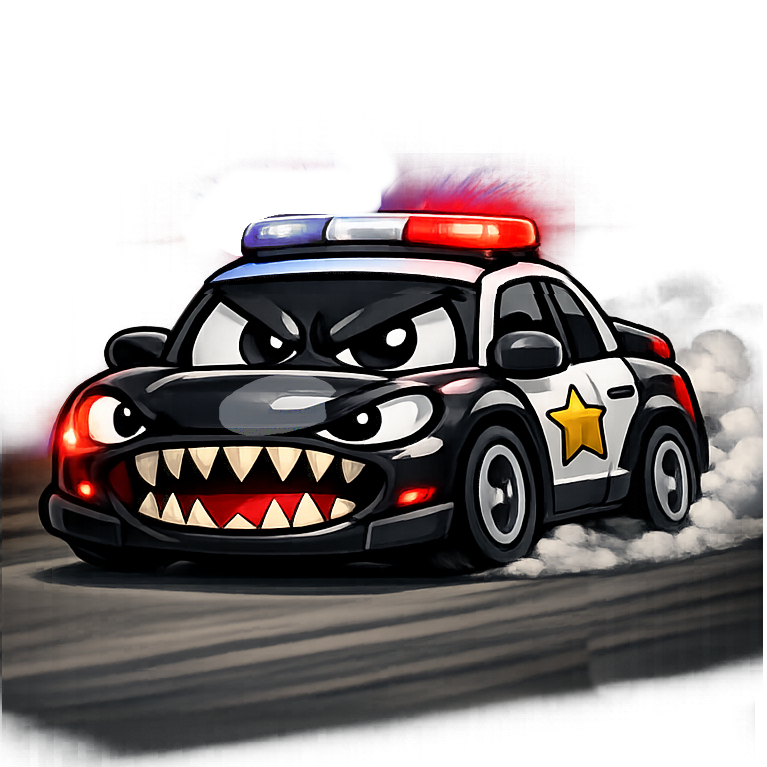
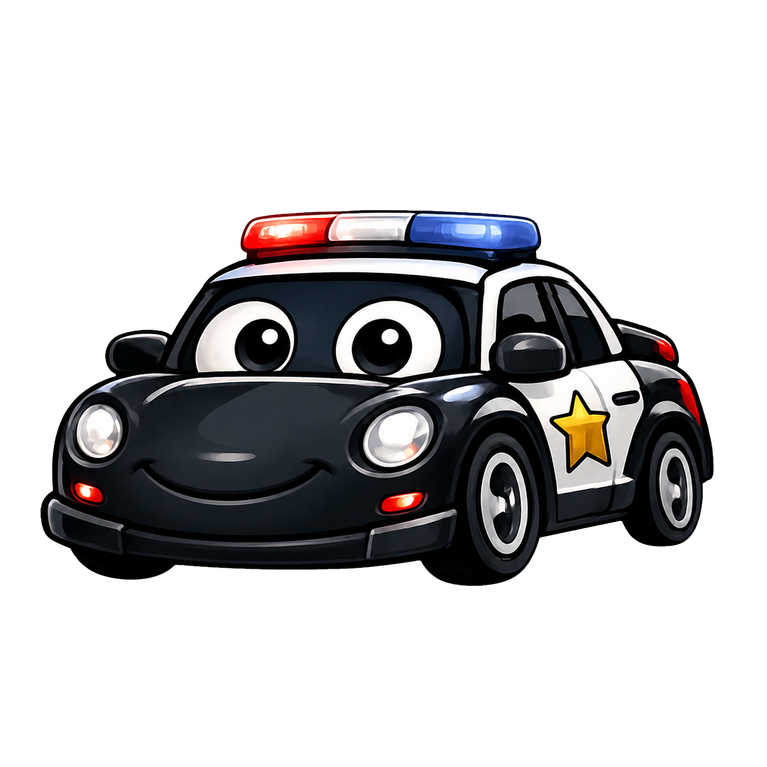
Compliance record: re-run against current assets
Content assessment re-resolved through theme_loader.gd. All nine themes
now load their intended assets and none contains a weapon, bared teeth,
a snarling character or a trademark-adjacent design.

Closed since the previous assessment: the castle player carries a lit
torch rather than a sword and its edges are properly anti-aliased
(soft-edge fraction 0.00 to 5.94 percent); the Little Red wolf has a
closed friendly mouth and round eyes with silhouette IoU 0.9998 against
its predecessor; the arcade theme is an original neon design.

Also fixed the castle collectible, whose manifest named shield_new
without a file extension so the loader returned null and the item
rendered with no sprite.

Open content items reduce from five to two: the Autumn Forest background
and collectible, and the Bathroom theme. Action list reduces from
fourteen items to eleven.

Ducks records a collectible colour with no sprite - that is by design,
the engine draws a coloured glyph, and it is not a defect.

diff --git a/COMPLIANCE_CHECKLIST.md b/COMPLIANCE_CHECKLIST.md
@@ -10,7 +10,7 @@
 | **Accounts** | None. No sign-in, no user profiles |
 | **Permissions requested** | `INTERNET`, `VIBRATE` — two, both used |
 | **Third-party SDKs** | None |
-| **Assessed** | 7 August 2026 |
+| **Assessed** | 9 August 2026 |
 
 Assessed against the policy text published at:
 
@@ -20,7 +20,7 @@ Assessed against the policy text published at:
 
 **Key:** ✅ meets the requirement · ⚠ open item, described in full · ❓ requires an artefact outside the application binary · ➖ not applicable
 
-**Scope of verification.** Every ✅ in Parts 2–5 is verified by inspection of the application source and build configuration, and is reproducible by a third party from the repository. Items marked ❓ depend on Play Console state or external services and cannot be evidenced from the binary. No claim in this document rests on assertion alone.
+**Scope of verification.** Every ✅ in Parts 2–5 is verified by inspection of the application source and build configuration, and is reproducible by a third party from the repository. Content assessment in Part 3 covers the assets the application actually loads, resolved by following the theme loader's own logic rather than listing directory contents. Items marked ❓ depend on Play Console state or external services and cannot be evidenced from the binary.
 
 ---
 
@@ -30,10 +30,12 @@ Learning Maze is an offline educational maze game for pre-readers and early read
 
 The application transmits no data, contains no third-party code, requests two permissions, and displays no advertising of any kind. Requirements 2, 4, 5, 7 and 8 of the Families Policy Requirements pass without qualification and are provable from the shipped artefact.
 
-**Open items are confined to two areas**, both set out in full below and neither of which is a data, privacy, advertising or technical matter:
+**Two open items remain**, both described in full below, and neither of which is a data, privacy, advertising or technical matter:
 
-1. Two character sprites and three theme-level items warrant review against the *Ages 5 & under* content guidance (Part 3).
+1. One optional theme's background and collectible warrant review against the *Ages 5 & under* guidance (Part 3, item C1).
 2. Three IARC content-rating questionnaire answers require confirmation against current content (Part 2, requirement 3).
+
+Across the nine themes, **no weapon, no bared teeth, no snarling character and no trademark-adjacent design is present** in any asset the application loads.
 
 ---
 
@@ -62,7 +64,7 @@ Seven of eight authorities return the lowest available rating. The ACB outlier d
 
 ### Requirement 2 · App is not merely a webview, and does not drive affiliate traffic ✅
 
-Native Godot application. **No webview component of any kind exists in the codebase** — verified by search for `WebView`, `JavaScriptBridge` and embedded HTML rendering; zero occurrences. The application renders its own interface and has no browsing capability.
+Native Godot application. **No webview component of any kind exists in the codebase** — verified by search for `WebView` and `JavaScriptBridge`; **zero occurrences**. The application renders its own interface and has no browsing capability.
 
 Three outbound links exist, all in the settings screen, all requiring an explicit user tap, and all handing off to the system browser rather than rendering in-process:
 
@@ -158,6 +160,8 @@ A privacy policy is published and linked in Play Console and within the applicat
 
 The application declares Ages 5 & under, which Google notes "is considered to include children in most locales". This section walks Google's published suitability criteria for that band.
 
+**Method.** Theme folders contain superseded assets that the application does not load. Every asset assessed below is the one the game **actually displays**, resolved by following `theme_loader.gd`: the `assets.<slot>` entry in each `manifest.json`, or the naming-convention default, then the top-level animation block whose frame list overrides it. Unreferenced files are excluded from the assessment and listed separately under Part 6.
+
 ### Criteria the application meets ✅
 
 | Google's criterion | How the application meets it |
@@ -179,36 +183,30 @@ The application declares Ages 5 & under, which Google notes "is considered to in
 | Require short-term memory tasks or abstract thinking | ✅ | None. The target glyph is displayed continuously in the HUD |
 | Include game penalties or punishments | ✅ | **None.** No score loss, no lives, no game-over, no progress reset |
 | Have a wide range of distracting features | ✅ | No advertising, no interstitials, no notifications, no external content |
-| Depict violence, fighting, **weapons**, crude humour or language, name-calling, or minimally sexual or suggestive themes, including depictions of alcohol | ⚠ | No violence, fighting, name-calling, sexual or suggestive content. **Zero** alcohol, tobacco or drug imagery anywhere in 3,652 vocabulary entries. Two items warrant review — see C1 and C4 below |
-| Depict **scary, dark settings** or characters in danger (think scary animals, monsters, music, **backgrounds**) | ⚠ | Two items warrant review — see C2 and C3 below |
+| Depict violence, fighting, **weapons**, crude humour or language, name-calling, or minimally sexual or suggestive themes, including depictions of alcohol | ⚠ | **No weapon appears in any loaded asset.** No violence, fighting, name-calling, sexual or suggestive content. **Zero** alcohol, tobacco or drug imagery across 3,652 vocabulary entries. One item — see C2 |
+| Depict **scary, dark settings** or characters in danger (think scary animals, monsters, music, **backgrounds**) | ⚠ | **No character in any theme bares teeth, snarls, or carries a menacing expression.** One item — see C1 |
 
 ### Content inventory — all nine themes
 
-Each theme provides a player sprite, a chaser sprite and a collectible. Themes are user-selectable; one is active at a time.
+Each theme provides a player sprite, a chaser sprite and a collectible. Themes are user-selectable; one is active at a time. Only the Paper theme is the default on a fresh install.
 
-| Theme | Player | Chaser | Assessment |
-|---|---|---|---|
-| Paper | Blue felt figure | Round one-eyed creature, smiling | ✅ Cute, no menace |
-| Ducks | Duckling | Fox | ✅ Friendly cartoon, no bared teeth |
-| Treasure Chase | Masked figure in stripes | Police officer with a whistle | ✅ No weapon or weapon-adjacent object |
-| Autumn Forest | Blue car | Crooked tree with round eyes and a small rounded mouth | ⚠ Character itself is benign; see C2 for the background |
-| Bathroom | Cartoon character | Plunger with a cross expression | ⚠ See C5 |
-| Little Red | Girl with a basket | Wolf | ⚠ See C3 |
-| Stone Castle | Knight | Three-headed dragon, cartoon style | ⚠ See C1 |
-| Cars | Red car | Police car, smiling | ✅ Round friendly eyes, open smile, no teeth |
-| Arcade | Yellow wedge | Coloured ghost | ⚠ See C5 |
+| Theme | Player | Chaser | Collectible | Assessment |
+|---|---|---|---|---|
+| Paper | Felt figure | Round one-eyed creature, smiling | Star | ✅ |
+| Ducks | Duckling | Fox, friendly | *(coloured glyph, no sprite)* | ✅ |
+| Cars | Red car | Police car, smiling | Wheel | ✅ |
+| Treasure Chase | Masked figure in stripes | Police officer with a whistle | Gold coin | ✅ No weapon or weapon-adjacent object |
+| Stone Castle | Knight holding a lit torch | Cartoon dragon, smiling | Shield | ✅ No weapon |
+| Little Red | Girl with a basket | Wolf, smiling, no teeth | Berries | ✅ |
+| Arcade | Hover-craft | Neon insect | Energy shard | ✅ Original designs; neon-on-black arcade aesthetic |
+| Autumn Forest | Blue car | Crooked tree, round eyes, rounded mouth | Carved pumpkin | ⚠ Characters benign; see C1 |
+| Bathroom | Cartoon character | Plunger | Toilet paper | ⚠ See C2 |
 
 ### Open content items
 
-**C1 — Knight carries a drawn sword.** In the Stone Castle theme the *player* sprite is a cartoon knight holding a raised sword. Google's *Ages 5 & under* guidance names weapons explicitly. Because this is a player rather than a chaser, it is on screen continuously while that theme is selected. The depiction is a stylised storybook sword with no blood, no target and no combat: the sword is never used, and the game contains no fighting mechanic of any kind.
+**C1 — Autumn Forest background and collectible.** This optional theme uses a dark forest background with cobwebs in the corners, and its collectible is a carved pumpkin. Google's wording names backgrounds specifically. Mitigating factors: the theme is one of nine and is not the default; it is opt-in; its player character is a cheerful blue car and its destination is a garage; and its chaser is a crooked tree with large round eyes, pupils and a small rounded mouth, with no teeth and no menacing features.
 
-**C2 — Autumn Forest background and collectible.** The theme uses a dark forest background with cobwebs in the corners, and its collectible is a carved pumpkin. Google's wording names backgrounds specifically. Mitigating factors: the theme is one of nine, is not the default, and is opt-in; its player character is a cheerful blue car and its destination is a garage; the chaser has round friendly eyes and a small rounded mouth.
-
-**C3 — Wolf chaser.** In the Little Red theme the chaser is a cartoon wolf with bared teeth and narrowed yellow eyes. The framing is a recognised European fairy tale, and the wolf never reaches or harms the player — contact simply restarts the attempt. "Scary animals" appears in Google's wording, so the sprite is listed for review notwithstanding its literary context.
-
-**C4 — Bathroom theme.** An opt-in theme, one of nine, not the default, depicting a smiling cartoon character, a toilet, toilet paper and a plunger. **No defecation, flatulence or vomiting is depicted or animated** — the sprites are static objects. This theme is the origin of the ACB "Mild Crude Humour" descriptor.
-
-**C5 — Arcade theme resemblance.** The Arcade theme presents a yellow wedge-shaped player, a coloured ghost chaser and dot collectibles. This is a matter for Google Play's Intellectual Property and Impersonation policies rather than the Families policies, and is recorded here for completeness.
+**C2 — Bathroom theme.** An opt-in theme, one of nine, not the default, depicting a smiling cartoon character, a toilet, toilet paper and a plunger. **No defecation, flatulence or vomiting is depicted or animated** — the sprites are static objects. This theme is the origin of the ACB "Mild Crude Humour" descriptor.
 
 ### Vocabulary content — 3,652 entries across 21 languages
 
@@ -216,10 +214,10 @@ Every entry was scanned against nine categories of policy-relevant imagery.
 
 | Category | Occurrences |
 |---|---|
+| Weapons | **0** *(one shield 🛡 appears with the Hebrew word for "knight" — defensive armour, not a weapon)* |
 | Alcohol | **0** |
 | Tobacco and drugs | **0** |
 | Violence and injury | **0** |
-| Weapons | **0** *(one shield 🛡 appears with the Hebrew word for "knight" — defensive armour, not a weapon)* |
 | Sexual or romantic | **0** |
 | Religious or political | **0** |
 | Bodily functions | **0** |
@@ -275,25 +273,30 @@ The application is free, complete, and contains no commercial content whatsoever
 | Outbound HTTP requests | None |
 | Offline capability | Complete. The application is fully functional with no network connection |
 
+### Known non-policy defects
+
+| Item | Effect |
+|---|---|
+| Unreferenced assets in theme folders | Approximately **2.3 MB** of superseded sprites remain in six theme folders. `export_filter="all_resources"` includes them in the bundle. No effect on displayed content — none is loaded — but they inflate download size |
+| `themes/scary/manifest.json` declares `start.png` | The file does not exist. Degrades gracefully; every call site null-checks. Start cell renders without an icon in that theme |
+| Tier-0 collectible placement | On the 5×4 grid the solution path yields only six usable cells in roughly 20% of generations, while two Ages-5-and-under words are seven letters long (`ARKADAŞ`, `AURINKO`). When they coincide, two letters spawn on one cell. Affects the Very Easy difficulty only |
+
 ---
 
 # Action points
 
-Sorted by implementation difficulty, easiest first. Items marked ▲ bear on the open content assessment in Part 3; the remainder are correctness or process items.
+Sorted by implementation difficulty, easiest first. ▲ marks the one item bearing on the open content assessment; the rest are correctness or process items.
 
 | # | Action | Effort | Why |
 |---|---|---|---|
-| 1 | Add the missing `.png` extension to `collectible.image` in `themes/castle/manifest.json` | One character | The value reads `"shield_new"`, so the loader returns null and the collectible renders with no sprite |
-| 2 | Remove the `start` asset declaration from `themes/scary/manifest.json` | One line | Declares a file that does not exist. Harmless but untidy |
-| 3 | Bump version code to 77 and version name to 1.0.4 | Two lines | Required for resubmission; target SDK stays 36 |
-| 4 | Replace the "What's new" text | Console only | Currently reads "First production release" |
-| 5 | Shorten the two 7-letter Ages-5-and-under words (`ARKADAŞ`, `AURINKO`) or add a spawner fallback | One data edit | On the 5×4 grid the solution path yields only six usable cells in roughly 20% of generations, so a 7-letter word places two letters on one cell |
+| 1 | Remove the `start` asset declaration from `themes/scary/manifest.json` | One line | Declares a file that does not exist |
+| 2 | Bump version code to 77 and version name to 1.0.4 | Two lines | Required for resubmission; target SDK stays 36 |
+| 3 | Replace the "What's new" text | Console only | Currently reads "First production release" |
+| 4 | Shorten the two 7-letter Ages-5-and-under words (`ARKADAŞ`, `AURINKO`), or add a spawner fallback | One data edit | Prevents two letters spawning on one cell on the smallest grid |
+| 5 | Delete the ~2.3 MB of unreferenced sprites from the six theme folders | File deletion | They ship in the bundle without being used |
 | 6 | Confirm the privacy policy page loads, names the developer and the application, and states no data collection | Browser check | Part 5 open item |
 | 7 | Enumerate active releases on every track before submitting | Console only | All active tracks are reviewed |
 | 8 | Re-capture screenshot 3 | One screenshot | Its breadcrumb displays a theme name that no longer matches the application |
-| 9 | ▲ Soften the wolf face in Little Red — remove bared teeth, open the eyes | Localised sprite edit | C3 |
-| 10 | ▲ Replace the knight's sword with a torch, banner or lantern | Sprite edit | C1 — not a shield; the theme's collectible is already a shield |
-| 11 | ▲ Recolour the Arcade ghost and replace the wedge player with a distinct character | Two sprites | C5 |
-| 12 | Obtain IARC's written determination on the crude-humour question | External dependency | Resolves the sole rating outlier with authority from the body that owns it |
-| 13 | Confirm the fear/horror, crime/violence and user-interaction questionnaire answers against current content, re-deriving all answers in a single pass | Console, after 12 | Part 2 requirement 3 — the three answers that cannot be evidenced from the binary |
-| 14 | ▲ Lighten the Autumn Forest background, remove the cobwebs, and replace the carved-pumpkin collectible | Art commission | C2 — the largest item, and it also requires re-capturing the promotional video and two screenshots, which currently feature this theme |
+| 9 | Obtain IARC's written determination on the crude-humour question | External dependency | Resolves the sole rating outlier with authority from the body that owns it |
+| 10 | Confirm the fear/horror, crime/violence and user-interaction questionnaire answers against current content, re-deriving all answers in a single pass | Console, after 9 | Part 2 requirement 3 — the three answers that cannot be evidenced from the binary |
+| 11 | ▲ Lighten the Autumn Forest background, remove the cobwebs, and replace the carved-pumpkin collectible | Art commission | C1 — the largest item, and it also requires re-capturing the promotional video and two screenshots, which currently feature this theme |
